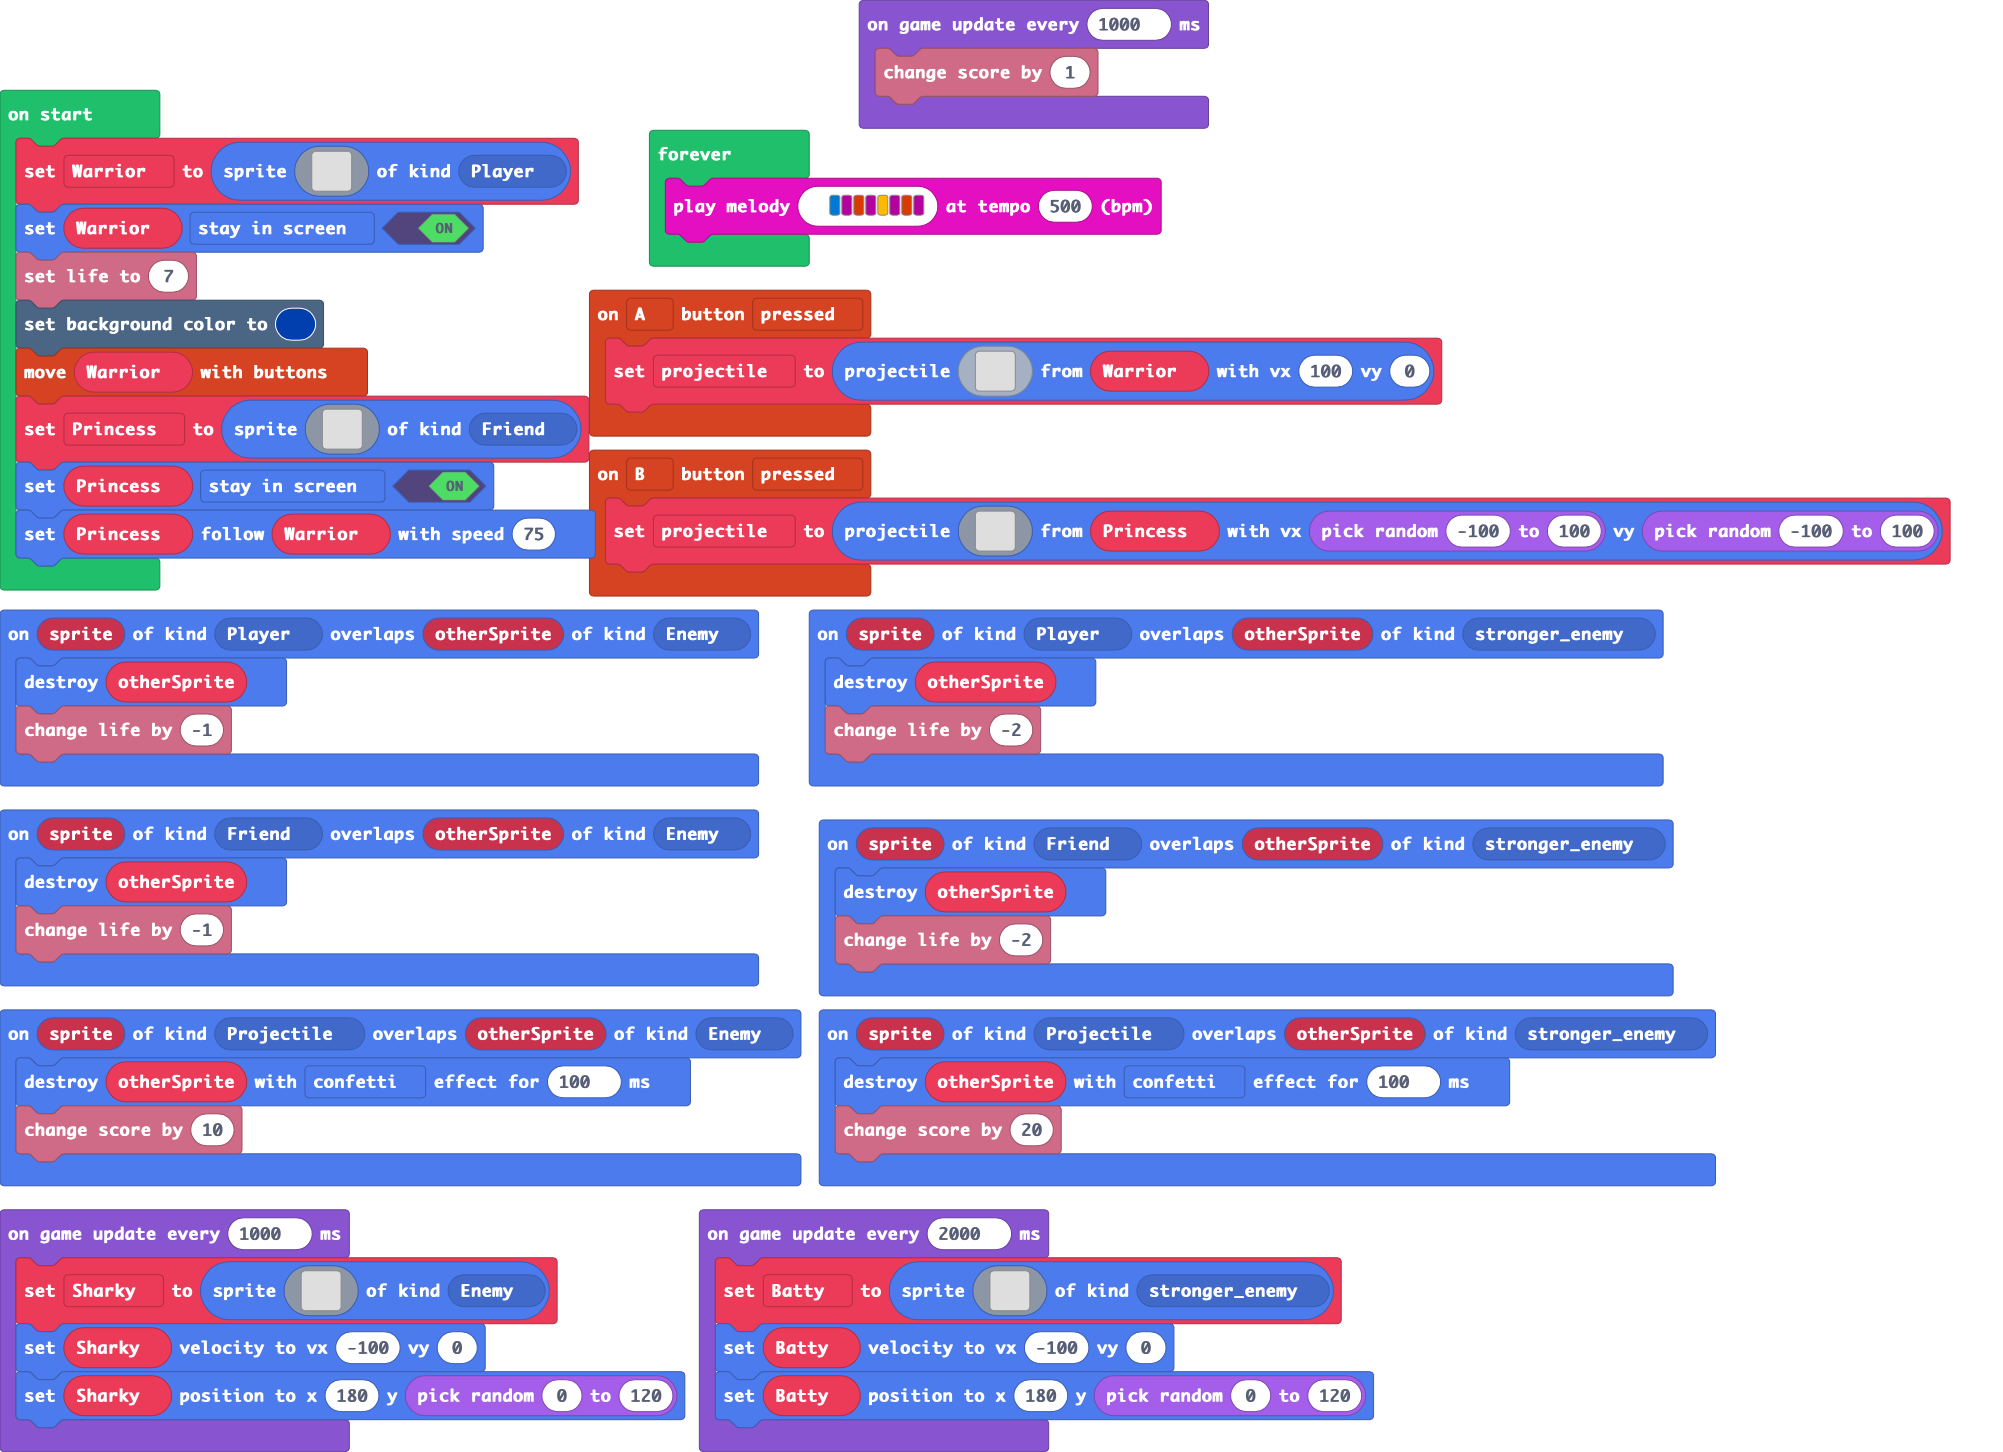
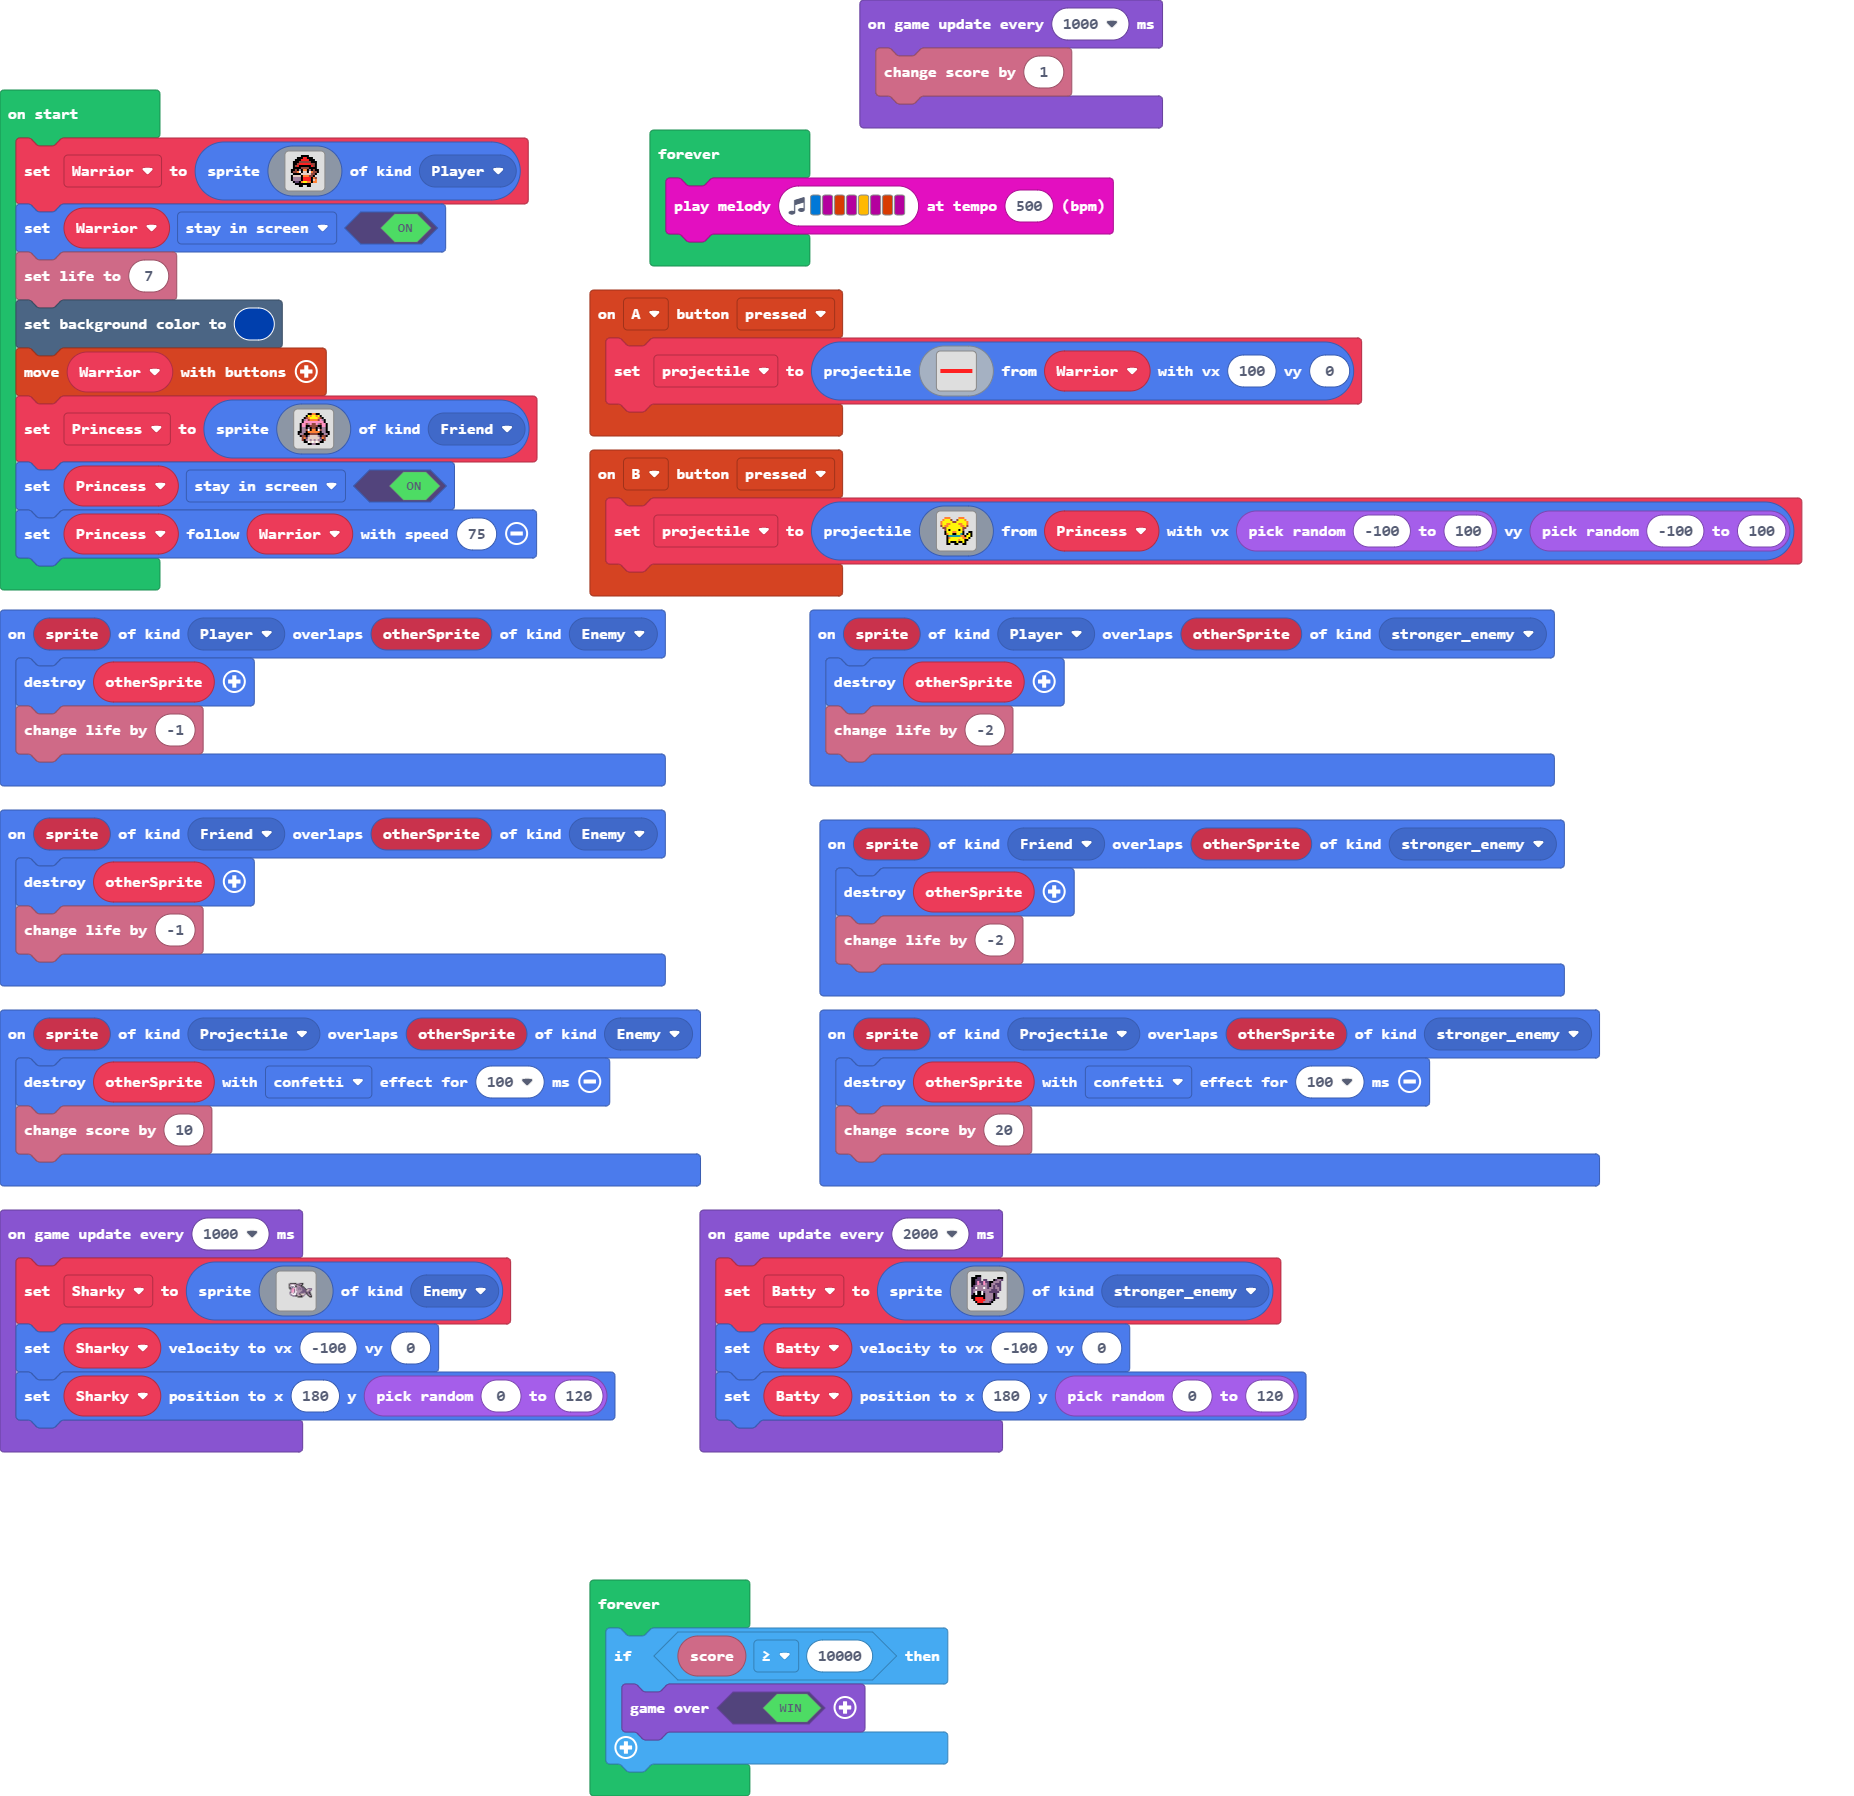
win function added

diff --git a/main.ts b/main.ts
@@ -161,3 +161,8 @@ game.onUpdateInterval(1000, function () {
 forever(function () {
     music.playMelody("E C B C A C B C ", 500)
 })
+forever(function () {
+    if (info.score() >= 10000) {
+        game.over(true)
+    }
+})
